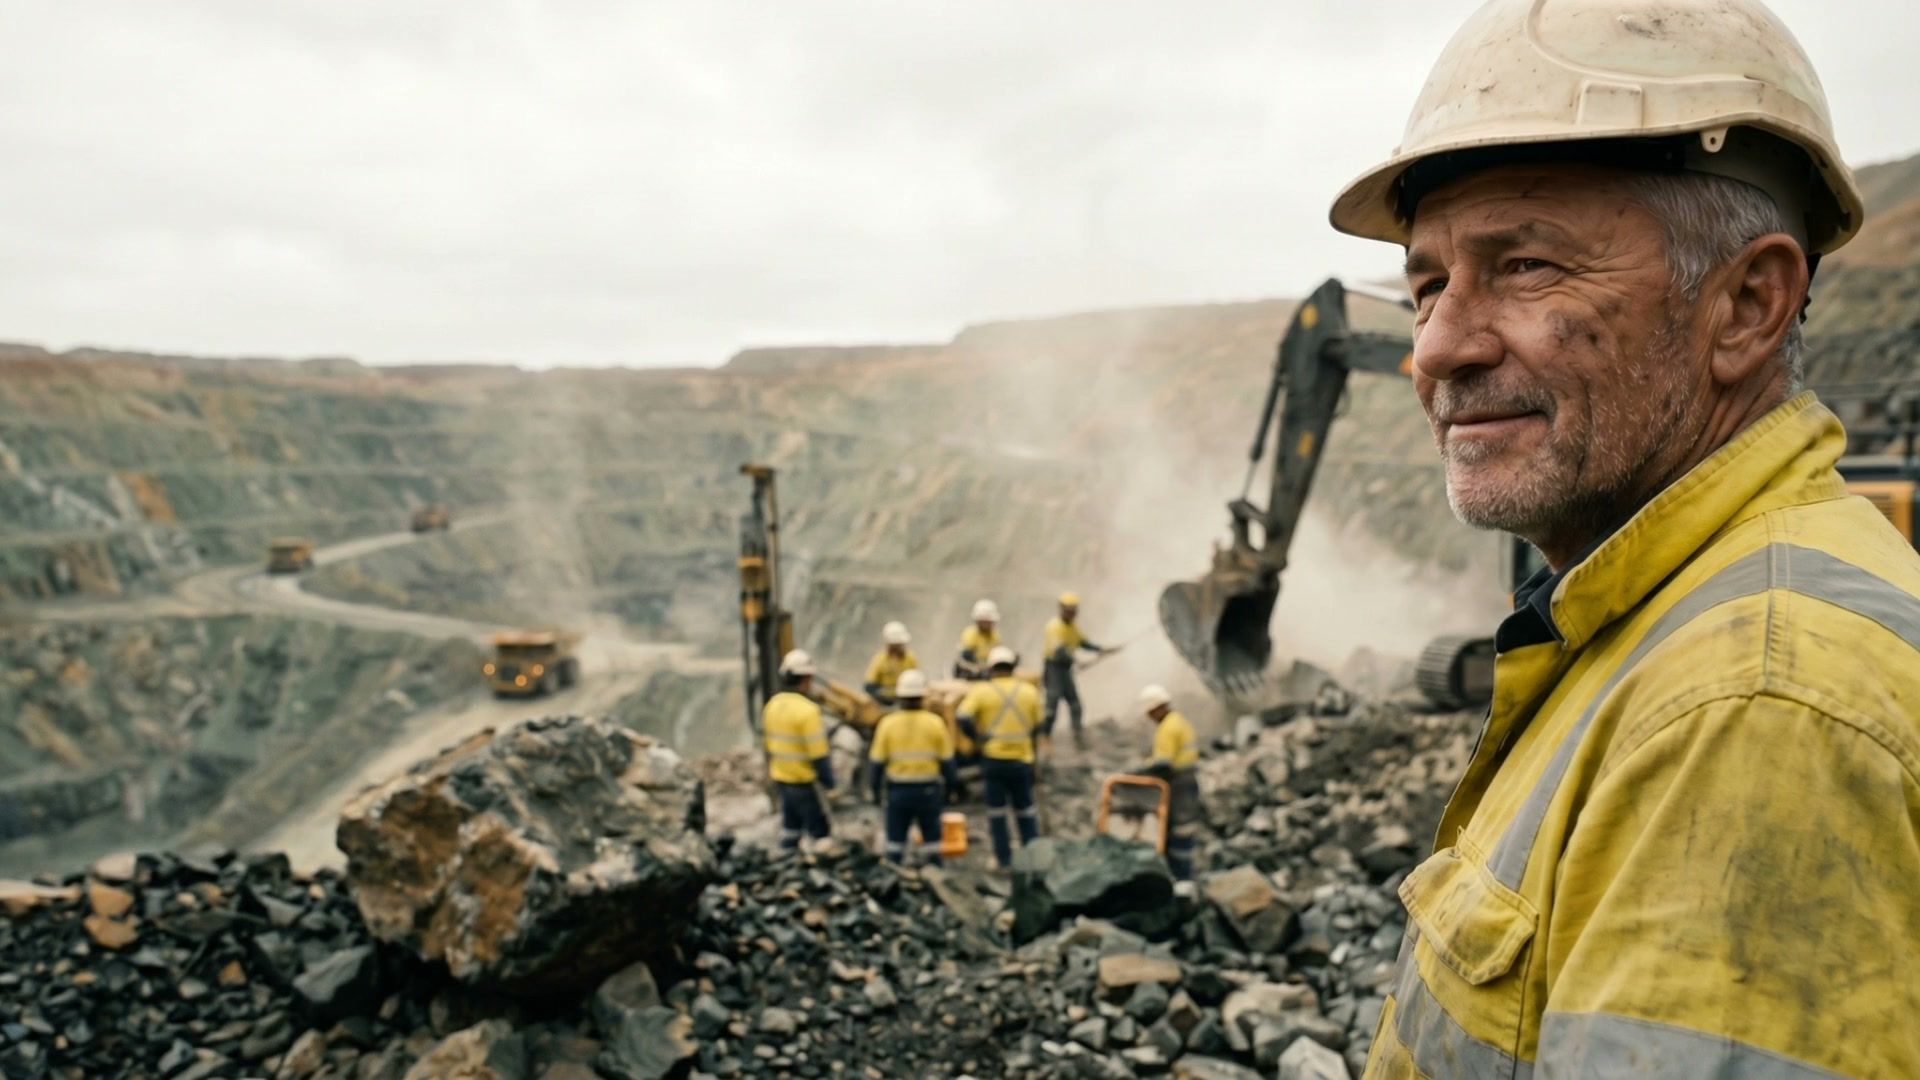
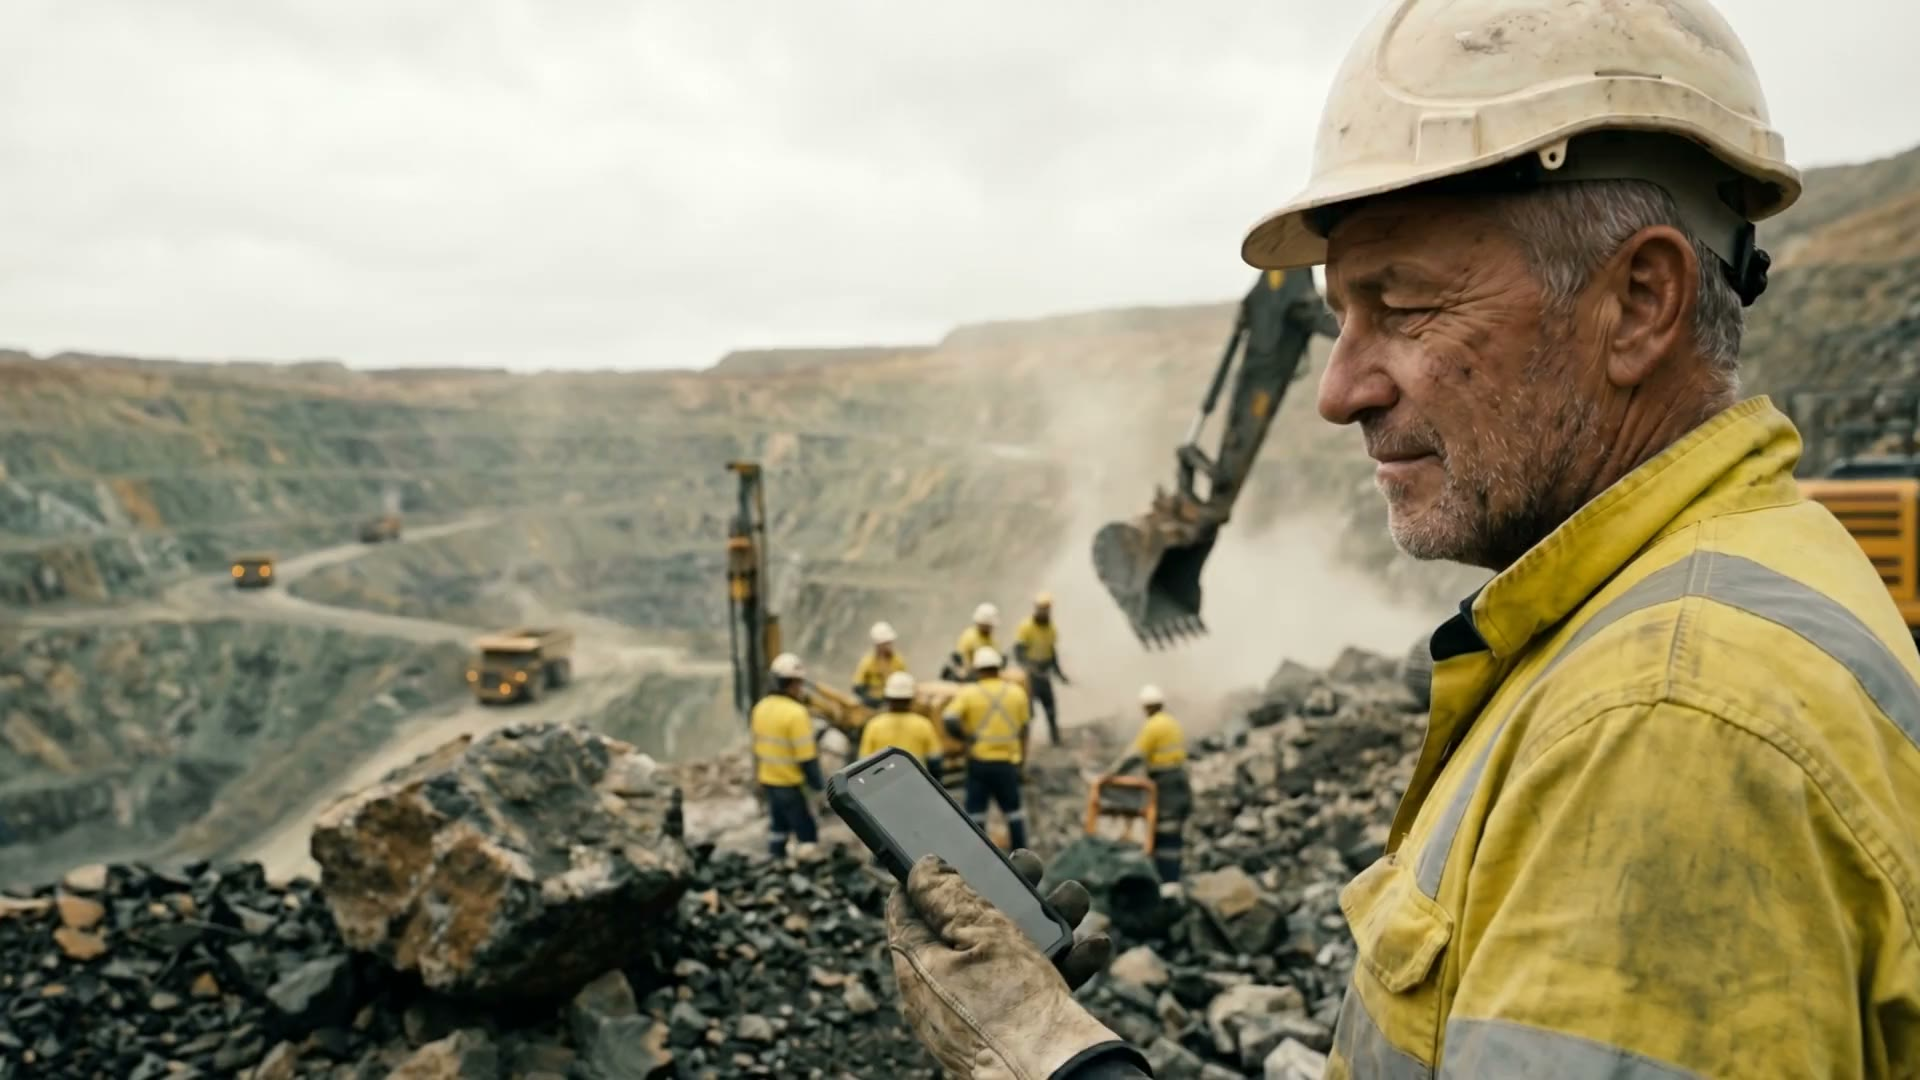
feat(web): persona index rows, clear-band compare/demo surface, hero video update
- Personas refactored from card grid to editorial numbered rows
- ComparisonTable + demonstration share new --lastro-surface-clear token
- section-atmosphere light-variant background/text token overrides
- updated hero scene video/poster assets

diff --git a/web/src/styles/section-atmosphere.css b/web/src/styles/section-atmosphere.css
@@ -74,8 +74,19 @@
   --section-kicker-bar: var(--lastro-color-olive-400);
 }
 
+/* Light variant — the comparison table rides dark-on-cream. `.compare` sits in
+ * the forced dark-band list above, so re-flip the text/border tokens here (the
+ * attribute selector out-specifies it) and explicitly tint the brand column. */
 .compare[data-theme="light"] {
-  --section-bg: var(--lastro-color-cream-100);
+  --lastro-text-primary: var(--lastro-color-olive-950);
+  --lastro-text-secondary: var(--lastro-color-olive-700);
+  --lastro-text-muted: var(--lastro-color-olive-500);
+  --lastro-border-subtle: rgba(19, 44, 36, 0.12);
+  --lastro-border-strong: rgba(19, 44, 36, 0.22);
+  --lastro-brand-seal-text: var(--lastro-color-seal-800);
+
+  /* Greenish off-white, not pure white — shared clear-band surface. */
+  --section-bg: var(--lastro-surface-clear);
   --section-wash-a: rgba(178, 237, 151, 0.1);
   --section-wash-b: rgba(84, 87, 54, 0.04);
   --section-kicker: var(--lastro-color-olive-600);
@@ -110,15 +121,16 @@
   --lastro-border-subtle: rgba(19, 44, 36, 0.12);
   --lastro-border-strong: rgba(19, 44, 36, 0.22);
 
-  --section-bg: var(--lastro-color-cream-100);
+  --section-bg: var(--lastro-surface-clear);
   --section-kicker: var(--lastro-color-olive-700);
   --section-kicker-bar: var(--lastro-color-olive-500);
   --atmo-grid-opacity: 0;
 
-  /* Flat cream — drop the radial washes. On the dark band they read as a faint
-   * glow, but over near-white cream the top/bottom radials show as bright white
-   * beams. A solid fill keeps the band even edge to edge. */
-  background: var(--lastro-color-cream-100);
+  /* Flat greenish off-white — drop the radial washes. On the dark band they
+   * read as a faint glow, but over the near-white surface the top/bottom
+   * radials show as bright beams. A solid fill keeps the band even edge to
+   * edge, and matches the compare band's clear surface. */
+  background: var(--lastro-surface-clear);
 }
 
 .demonstration[data-theme="light"].section--band {

diff --git a/web/src/components/trust/trust-sections.css b/web/src/components/trust/trust-sections.css
@@ -71,17 +71,16 @@
 
 .personas__row-index {
   font-family: var(--lastro-font-mono, monospace);
-  font-size: 0.8125rem;
-  line-height: 1;
-  padding-top: 0.4rem;
-  letter-spacing: 0.08em;
-  color: color-mix(in oklab, var(--lastro-text-secondary) 60%, transparent);
+  font-size: clamp(2rem, 1.4rem + 2.2vw, 3.25rem);
+  line-height: 0.9;
+  letter-spacing: -0.02em;
+  color: color-mix(in oklab, var(--lastro-brand-seal) 78%, var(--lastro-text-secondary));
   font-variant-numeric: tabular-nums;
   transition: color 320ms cubic-bezier(0.16, 1, 0.3, 1);
 }
 
 .personas__row:hover .personas__row-index {
-  color: var(--lastro-brand-seal);
+  color: color-mix(in oklab, var(--lastro-brand-seal) 100%, white 8%);
 }
 
 .personas__row-head {

diff --git a/web/src/components/content/content-sections.css b/web/src/components/content/content-sections.css
@@ -120,6 +120,14 @@
   max-width: 58ch;
 }
 
+/* Clear cream band — `--section-bg` resolves to cream via the section's
+ * data-theme="light". Flat fill (no radial washes) keeps it even edge to edge,
+ * the same call demonstration's light variant makes over near-white cream. */
+.compare {
+  color: var(--lastro-text-primary);
+  background: var(--section-bg, transparent);
+}
+
 /* Trim the band's top whitespace so the section opens closer to the divider. */
 .compare.section--band {
   padding-block-start: clamp(2.5rem, 1.5rem + 3vw, 4rem);

diff --git a/web/src/styles/lastro-tokens.css b/web/src/styles/lastro-tokens.css
@@ -22,6 +22,9 @@
   --lastro-color-cream-100: #f4f8f4;
   --lastro-color-cream-200: #eaf1eb;
   --lastro-color-cream-300: #d6ded7;
+  /* Greenish off-white — cream tinted with the brand mint. Shared by every
+   * "clear" band (compare, demonstration) so they read as one surface. */
+  --lastro-surface-clear: color-mix(in oklab, var(--lastro-color-seal-400) 12%, var(--lastro-color-cream-100));
   --lastro-color-seal-300: #cdf4ba;
   --lastro-color-seal-400: #B2ED97;
   --lastro-color-seal-500: #8fd870;

diff --git a/web/src/components/content/ContentSections.tsx b/web/src/components/content/ContentSections.tsx
@@ -115,7 +115,7 @@ export function ComparisonTable() {
   const c = content.compare;
 
   return (
-    <section className="compare section section--band" id="compare">
+    <section className="compare section section--band" id="compare" data-theme="light">
       <div className="shell">
         <div className="compare__layout">
           <div className="compare__intro">